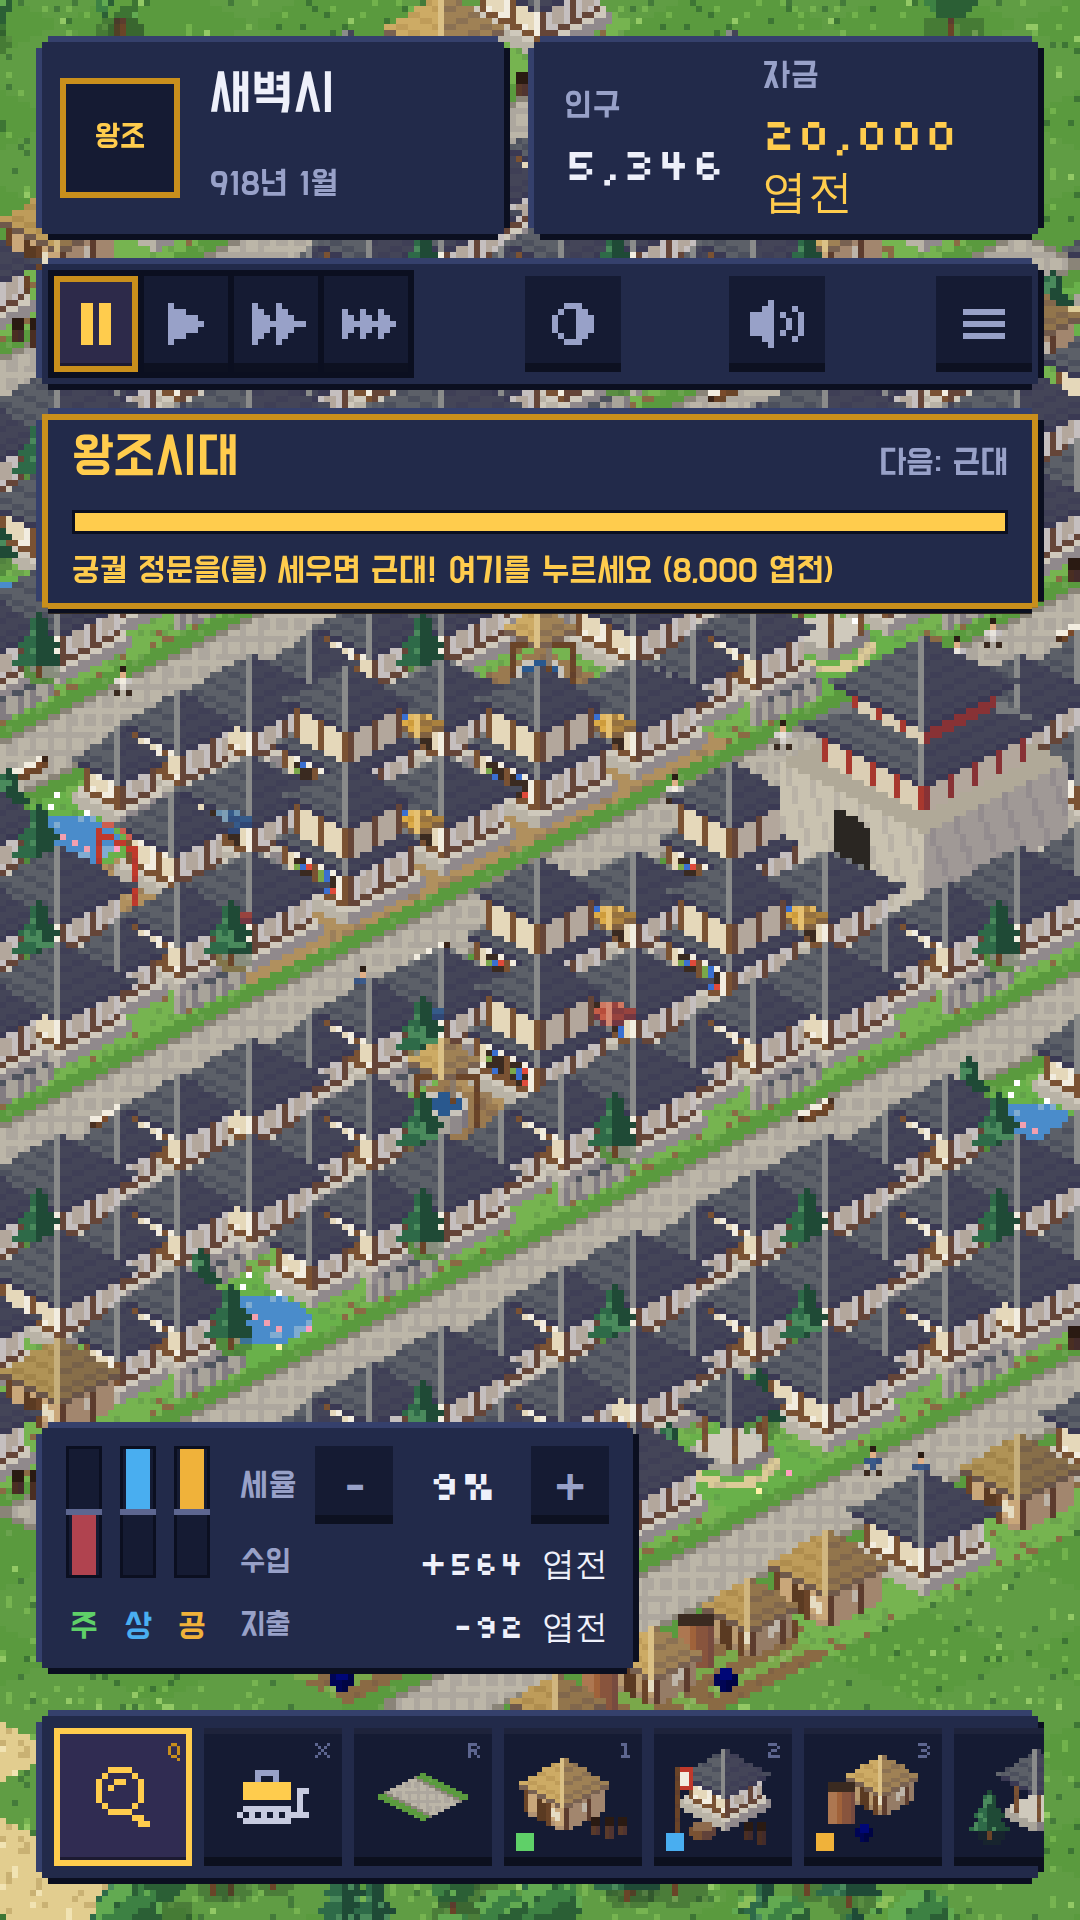
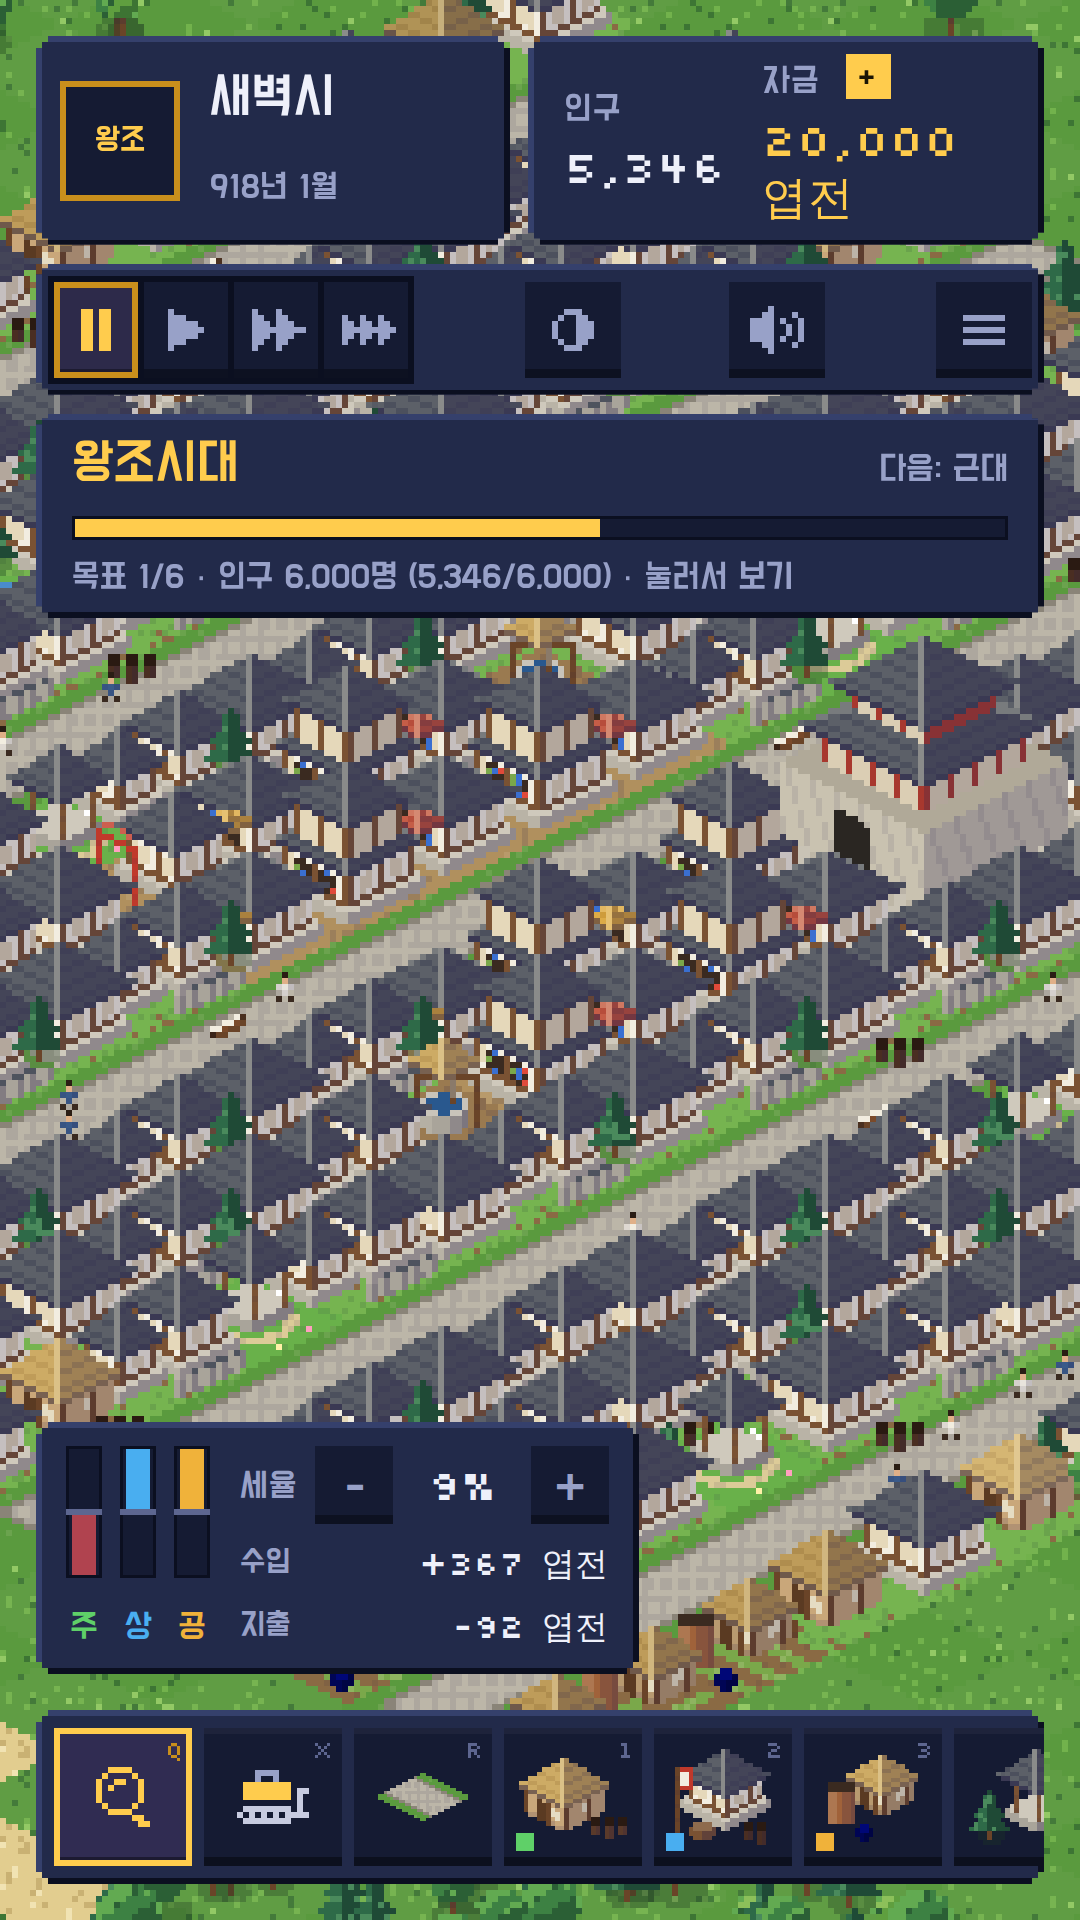
도트시티 앱: iOS 출시 준비
- IOS_RELEASE.md: 준비물부터 심사 제출까지 순서표, App Store Connect 문구(부제·설명·키워드·
  심사 메모), 앱 내 구입 상품 표, 앱 개인정보·연령 등급 답변
- 출시용 빌드에서 '시대 골라 시작' 제외 (확인용, DOT_TEST=1 이면 포함)
- iPhone 전용으로 설정 (iPad 스크린샷 불필요)
- 스토어 스크린샷 다시 생성: 석기 · 왕조 · 현대 밤 · 미래 · 충전 화면

Claude-Session: https://claude.ai/code/session_01XxvA4eUhsjPuZbBYtpabHX

diff --git a/dotcity-app/IOS_RELEASE.md b/dotcity-app/IOS_RELEASE.md
@@ -1,0 +1,156 @@
+# 도트시티 iOS 출시 순서표
+
+iOS를 먼저 출시하고 안드로이드는 나중에 합니다. 안드로이드 프로젝트(`android/`)는 그대로 두었습니다.
+위에서부터 순서대로 하면 됩니다. ☐ 칸은 직접 체크하세요.
+
+---
+
+## 0. 준비물
+
+- ☐ Mac + Xcode 최신판 (App Store에서 설치)
+- ☐ Node.js 22 이상
+- ☐ [Apple Developer Program](https://developer.apple.com/programs/) 가입 (연 $99, 승인까지 1~2일)
+- ☐ [AdMob](https://admob.google.com) 가입 (광고 보고 충전용)
+- ☐ 공개 웹 주소 두 개: **개인정보처리방침**, **지원 페이지**
+  GitHub Pages, 노션 공개 페이지 등 아무 곳이나 됩니다. 개인정보처리방침은 [`PRIVACY.md`](PRIVACY.md) 내용을 그대로 올리세요.
+
+## 1. 코드에서 바꿀 것
+
+- ☐ **AdMob 광고 ID 교체.** 지금은 Google 테스트 ID라 수익이 생기지 않습니다. 순서는 README "5-2" 참고.
+  - `ios/App/App/Info.plist` → `GADApplicationIdentifier` = AdMob **iOS 앱 ID** (`ca-app-pub-…~…`)
+  - `scripts/build-web.mjs` → `UNIT`의 iOS 쪽 = **보상형 광고 단위 ID** (`ca-app-pub-…/…`)
+- ☐ 버전 확인: Xcode → App 타깃 → General → **Version 1.0**, **Build 1** (다시 올릴 때마다 Build를 1씩 올림)
+- ☐ 출시용으로 빌드:
+  ```bash
+  cd dotcity-app
+  npm install
+  npm run sync      # 출시용: '시대 골라 시작'(확인용 메뉴)이 빠짐
+  npm run ios       # Xcode 열기
+  ```
+  기기에서 시대별로 확인할 때만 `DOT_TEST=1 npm run sync`를 씁니다. **이걸로 만든 빌드를 올리지 마세요.**
+- ☐ Xcode → App 타깃 → **Signing & Capabilities → Team**에서 내 개발자 계정 선택
+
+이미 해 둔 것: 앱 ID `com.eyisyun.dotcity`, 이름 `도트시티`, iPhone 전용, 아이콘·시작 화면, 수출 규정
+(`ITSAppUsesNonExemptEncryption = NO`), 추적 허용 문구, 광고 네트워크 목록(SKAdNetwork), 결제·광고 플러그인.
+
+## 2. 내 Mac·iPhone에서 시험
+
+- ☐ **시뮬레이터:** ▶ Run → 자금 칸 ＋ → 상품을 누르면 Xcode 시험용 결제 창이 뜹니다(`Products.storekit`, 돈 안 나감).
+  "광고 보고 받기"는 테스트 광고로 뜹니다.
+- ☐ **실제 iPhone:** USB로 연결 → 기기 선택 → ▶ Run. 처음 실행하면 "추적 허용" 창이 한 번 뜨는지 확인하세요.
+- ☐ 시험할 것: 석기시대 시작 → 모닥불·움집 터·길 → 집이 생김 → 저장 후 앱을 껐다 켜도 이어짐 → 충전 → 광고 3번 → "내일 다시"
+
+## 3. App Store Connect 기본 설정
+
+- ☐ **비즈니스 → 유료 앱 계약**에 동의하고 은행 계좌·세금 정보를 입력합니다. 이게 끝나야 앱 내 구입이 동작합니다.
+- ☐ **나의 앱 → ＋ → 새로운 앱**
+  - 플랫폼 iOS · 이름 `도트시티` · 기본 언어 한국어 · 번들 ID `com.eyisyun.dotcity` · SKU `dotcity` · 사용자 액세스 전체
+
+## 4. 앱 내 구입 상품 3개
+
+**수익화 → 앱 내 구입 → ＋ → 소모품(Consumable)**으로 아래 3개를 만듭니다. 상품 ID는 글자 하나까지 똑같아야 합니다.
+
+| 참조 이름 | 상품 ID | 가격 | 표시 이름 (한국어) | 설명 |
+|---|---|---|---|---|
+| 게임머니 충전 1 | `dotcity.coins.small` | ₩2,200 | 게임머니 충전 | 지금 시대 게임머니를 충전해요. |
+| 게임머니 충전 3배 | `dotcity.coins.medium` | ₩5,500 | 게임머니 충전 3배 | 지금 시대 게임머니를 3배 충전해요. |
+| 게임머니 충전 8배 | `dotcity.coins.large` | ₩13,000 | 게임머니 충전 8배 | 지금 시대 게임머니를 8배 충전해요. |
+
+- ☐ 각 상품의 **심사 정보 → 스크린샷**에 `store/screenshots/ios-5-shop.png`를 올립니다.
+- ☐ 상품 상태가 "제출 준비 완료"가 되었는지 확인합니다. 처음 출시하는 상품은 앱과 함께 심사받습니다(6단계).
+
+## 5. 스토어 정보 (그대로 붙여 넣기)
+
+**앱 정보**
+- 부제 (30자): `석기시대부터 미래까지, 픽셀 도시`
+- 카테고리: 기본 **게임 → 시뮬레이션**, 보조 **게임 → 전략**
+- 콘텐츠 권한: 제3자 콘텐츠 없음
+
+**1.0 버전 정보**
+- 스크린샷 (6.9"/6.7" iPhone, 1290×2796) — `store/screenshots/`의 iOS 5장을 순서대로:
+  `ios-1-stone.png`, `ios-2-dynasty.png`, `ios-3-modern-night.png`, `ios-4-future.png`, `ios-5-shop.png`
+- 프로모션 텍스트 (170자):
+  ```
+  모닥불 곁의 움집 몇 채에서 시작해 한옥 마을, 벽돌 도시, 고층 빌딩, 하늘을 나는 차의 미래 도시까지. 시대를 건너며 나만의 픽셀 도시를 키워 보세요.
+  ```
+- 설명:
+  ```
+  모닥불 곁에 모인 석기시대 부족에서 시작하세요.
+  길을 내고 집 터를 정하면 사람들이 모여들어 움집을 짓습니다.
+
+  시대마다 목표를 채우고 그 시대의 기념물을 세우면 다음 시대가 열립니다.
+  고인돌을 세우면 청동기시대, 고분을 쌓으면 기와지붕 한옥의 왕조시대,
+  궁궐 정문을 세우면 벽돌과 증기기관의 근대, 기차역을 세우면 고층 빌딩이 솟는 현대,
+  우주 엘리베이터를 세우면 하늘을 나는 차와 아콜로지가 솟는 미래가 열립니다.
+
+  • 석기 · 청동기 · 왕조 · 근대 · 현대 · 미래, 시대마다 바뀌는 집과 길과 탈것
+  • 옛 마을이 한 채씩 새 시대 양식으로 다시 지어지는 모습
+  • 모닥불·우물·발전소, 병원과 학교, 교통 체증과 화재까지 살아 있는 도시 시뮬레이션
+  • 밤이 되면 창문마다 불이 켜지는 픽셀 야경
+  • 기념물 공사는 현실 시간으로 진행되고, 자리를 비운 동안에도 도시가 자랍니다
+  • 인터넷 없이 플레이, 강제 광고 없음 (원할 때만 광고 보고 게임머니 받기)
+  ```
+- 키워드 (100자, 쉼표로 구분, 띄어쓰기 없이):
+  ```
+  도시,시뮬레이션,픽셀,도트,시대,석기시대,한옥,건설,타이쿤,도시건설,문명,미래도시,경영,힐링
+  ```
+- 지원 URL · 마케팅 URL(선택): 0단계에서 만든 지원 페이지 주소
+- 저작권: `2026 eyisyun`
+- **앱 내 구입:** 4단계 상품 3개를 체크합니다.
+
+**앱 심사 정보**
+- 로그인 필요: **아니요**
+- 연락처: 이름, 전화, 이메일
+- 메모 (그대로):
+  ```
+  로그인이 없는 1인용 도시 건설 게임입니다.
+  화면 위 '자금' 옆 ＋ 버튼을 누르면 충전 화면이 열립니다.
+  - 광고 보고 받기: 사용자가 누를 때만 표시되는 Google AdMob 보상형 광고이며, 하루 3번까지입니다.
+  - 게임머니 충전 3종: 소모성 앱 내 구입입니다. 받는 게임머니는 현재 시대에 따라 달라집니다.
+  처음 광고를 준비할 때 App Tracking Transparency 권한을 요청합니다. 거부해도 모든 기능을 쓸 수 있습니다.
+  ```
+
+## 6. 개인정보 · 연령 등급
+
+**앱 개인정보** (광고 SDK 때문에 '수집하지 않음'이 아닙니다)
+- 개인정보처리방침 URL: 0단계 주소
+- "데이터를 수집합니까?" → **예**. 아래는 Google AdMob SDK 기준이며, 최신 내용은
+  [Google 안내](https://developers.google.com/admob/ios/privacy/data-disclosure)에서 꼭 한 번 맞춰 보세요.
+
+| 데이터 유형 | 용도 | 사용자와 연결 | 추적에 사용 |
+|---|---|---|---|
+| 식별자 → 기기 ID | 제3자 광고, 분석 | 아니요 | **예** |
+| 위치 → 대략적인 위치 (IP 기반) | 제3자 광고, 분석 | 아니요 | **예** |
+| 사용 데이터 → 제품 상호 작용 | 제3자 광고, 분석 | 아니요 | **예** |
+| 사용 데이터 → 광고 데이터 | 제3자 광고, 분석 | 아니요 | **예** |
+| 진단 → 충돌 데이터, 성능 데이터, 기타 진단 데이터 | 분석 | 아니요 | 아니요 |
+
+**연령 등급 설문**
+- 폭력·선정성·도박 등 모든 항목 **없음**
+- 앱 내 구입 **있음** (자동 표시), 광고 **있음**
+- 예상 등급: **4+**
+
+## 7. 업로드와 심사 제출
+
+- ☐ Xcode에서 기기를 **Any iOS Device (arm64)**로 두고 **Product → Archive**
+- ☐ Organizer → **Distribute App → App Store Connect → Upload**
+- ☐ 10~30분 뒤 App Store Connect → **TestFlight**에 빌드가 나타나면, 내부 테스트로 내 iPhone에서 한 번 더 확인합니다.
+  TestFlight에서는 결제가 샌드박스로 되어 실제 돈이 나가지 않습니다.
+- ☐ 1.0 버전 페이지 → **빌드** 선택 → **앱 내 구입** 3개 선택 → **심사에 추가 → 제출**
+- ☐ 심사는 보통 1~3일 걸립니다. 거절되면 사유를 알려 주세요. 맞춰서 고치겠습니다.
+
+## 자주 거절되는 이유와 대비
+
+| 사유 | 이 앱의 상태 |
+|---|---|
+| 4.2 웹사이트를 감싼 앱 | 인터넷 없이 동작하는 게임, 네이티브 결제·광고·뒤로가기·자동 저장 처리 |
+| 3.1.1 결제 수단 | 게임머니는 Apple 앱 내 구입으로만 판매 |
+| 5.1.2 추적 | 추적 허용 창을 띄우고, 거부해도 모든 기능 사용 가능 |
+| 2.1 앱 완성도 | 심사 메모에 충전 화면 여는 방법을 적어 둠 |
+| 앱 내 구입 상품 누락 | 상품을 버전에 함께 선택해서 제출 (7단계) |
+
+## 출시 뒤 할 일 (안드로이드)
+
+iOS 출시가 끝나면 안드로이드를 진행합니다. README의 Google Play 항목,
+AdMob **Android 앱 ID**(`AndroidManifest.xml`)와 광고 단위(`build-web.mjs`의 Android 쪽) 교체,
+Play Console 인앱 상품 등록, Android 스크린샷 다시 만들기가 남아 있습니다.

diff --git a/dotcity-app/README.md b/dotcity-app/README.md
@@ -1,5 +1,7 @@
 # 도트시티 앱 (iOS · Android)
 
+> **iOS 먼저 출시합니다.** 순서대로 따라 하는 체크리스트와 App Store Connect에 붙여 넣을 문구는 [`IOS_RELEASE.md`](IOS_RELEASE.md)에 있습니다.
+
 웹 게임 `../dotcity/index.html`을 [Capacitor](https://capacitorjs.com) 8로 감싼 네이티브 앱 프로젝트입니다.
 게임 코드는 한 곳(`dotcity/index.html`)에만 있고, 앱 빌드는 그 파일을 가져와 앱용으로 포장합니다.
 
